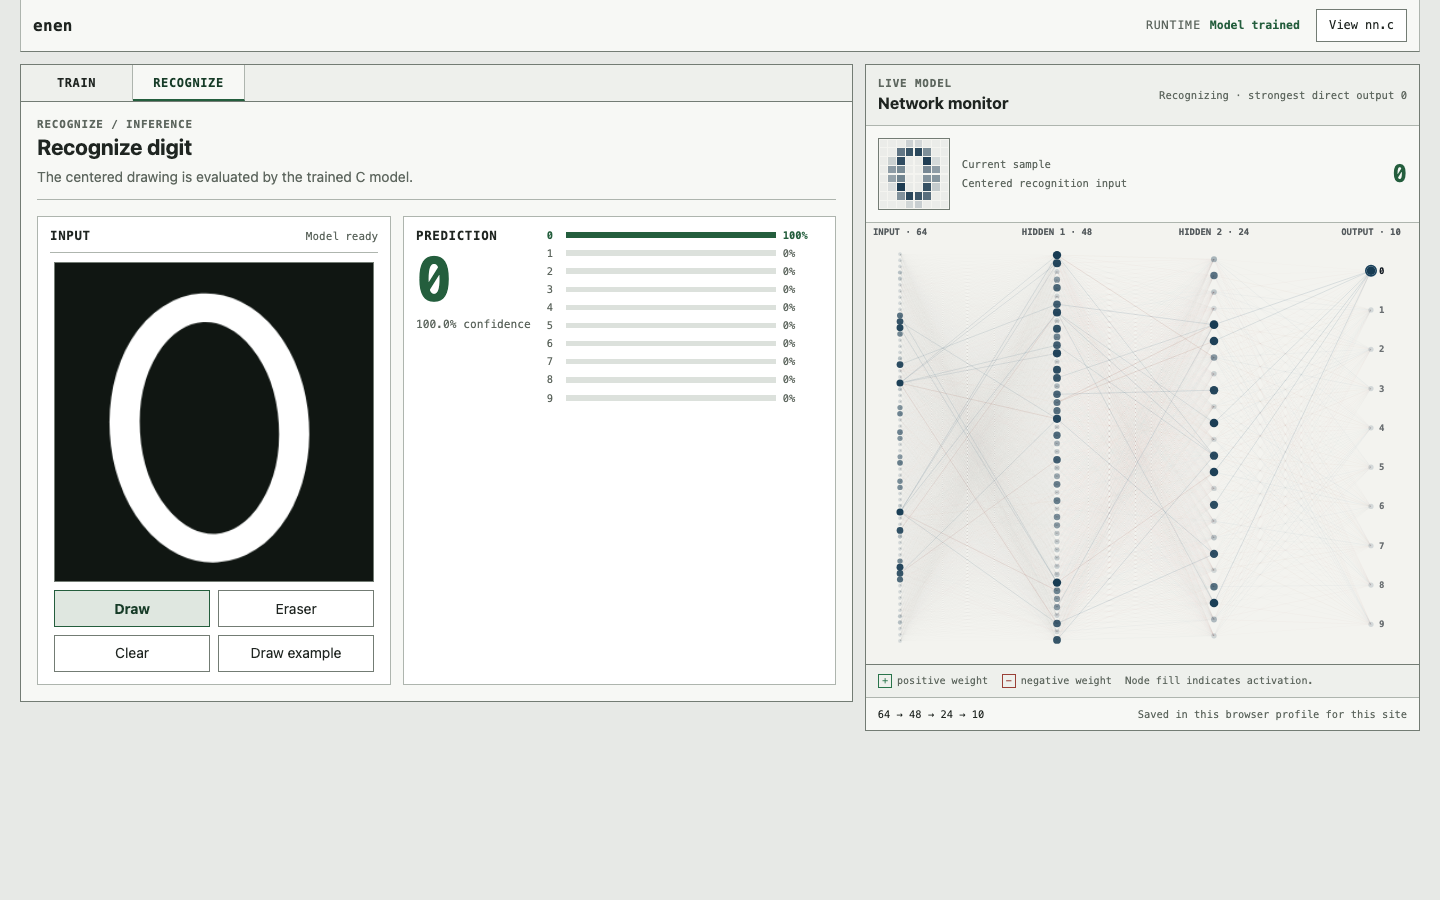
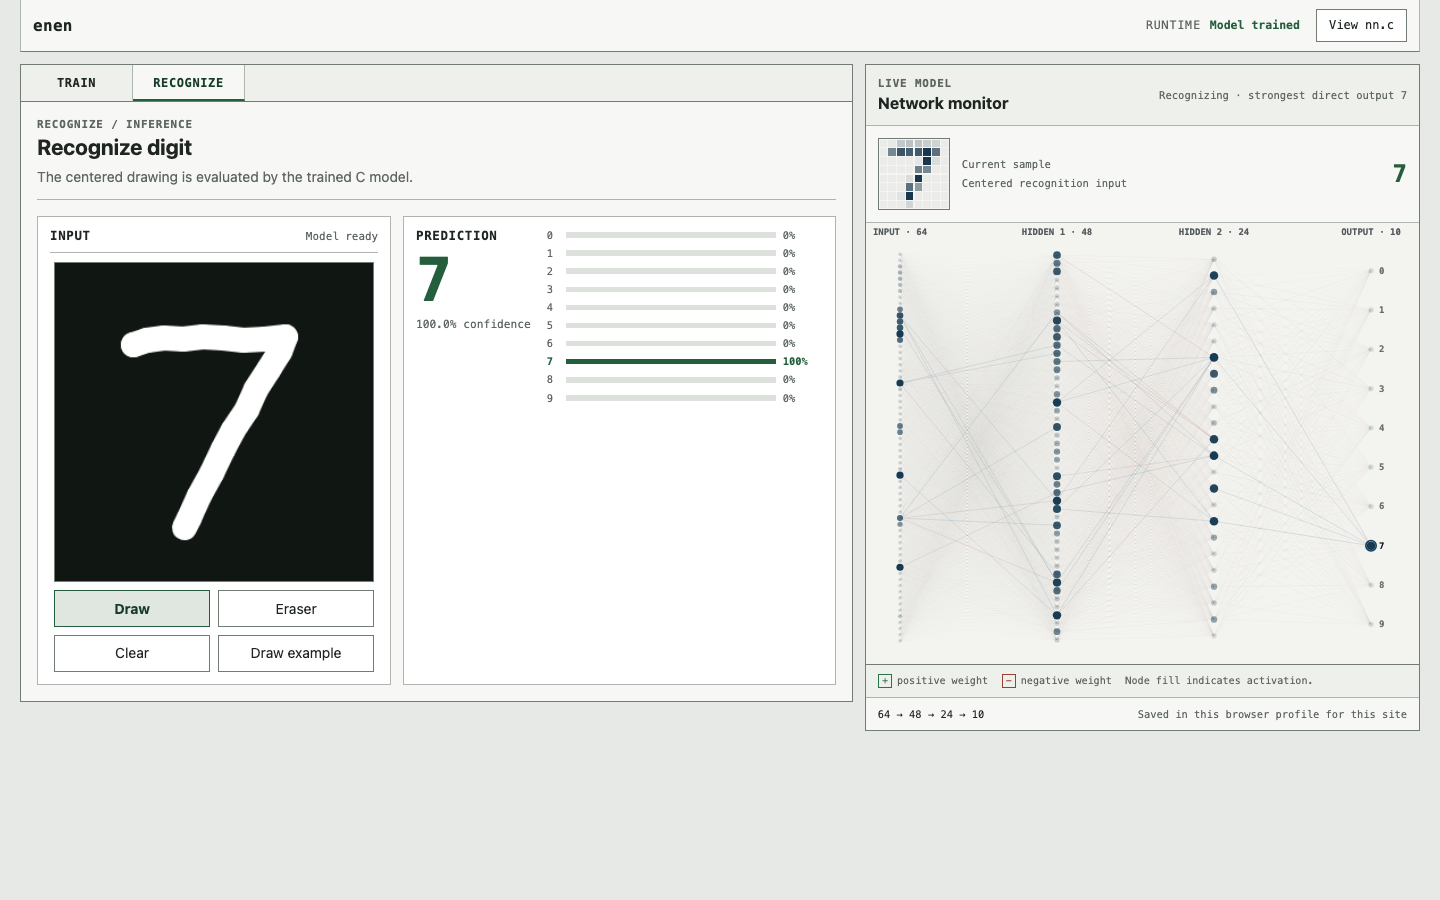
docs: show freehand drawing in inference screenshot

diff --git a/README.md b/README.md
@@ -17,10 +17,11 @@ actual training examples, activations, and weights.
 
 ![Training the C neural network in the browser, with epoch progress and live layer activations](docs/screenshots/training.png)
 
-**Inference:** a trained model predicts a digit from the drawing canvas. The
-interface shows class probabilities alongside the network's response.
+**Inference:** a freehand seven drawn with pointer strokes is recognized by the
+trained C model. The interface shows class probabilities alongside the network's
+response.
 
-![Inference with the trained C neural network, showing a drawn digit, its predicted class, probabilities, and network activations](docs/screenshots/inference.png)
+![The trained C neural network recognizing a freehand seven, with its predicted class, probabilities, and network activations](docs/screenshots/inference.png)
 
 The prediction card averages C predictions over nearby input variations. The
 network monitor shows a direct forward pass of the centered input, so the two
